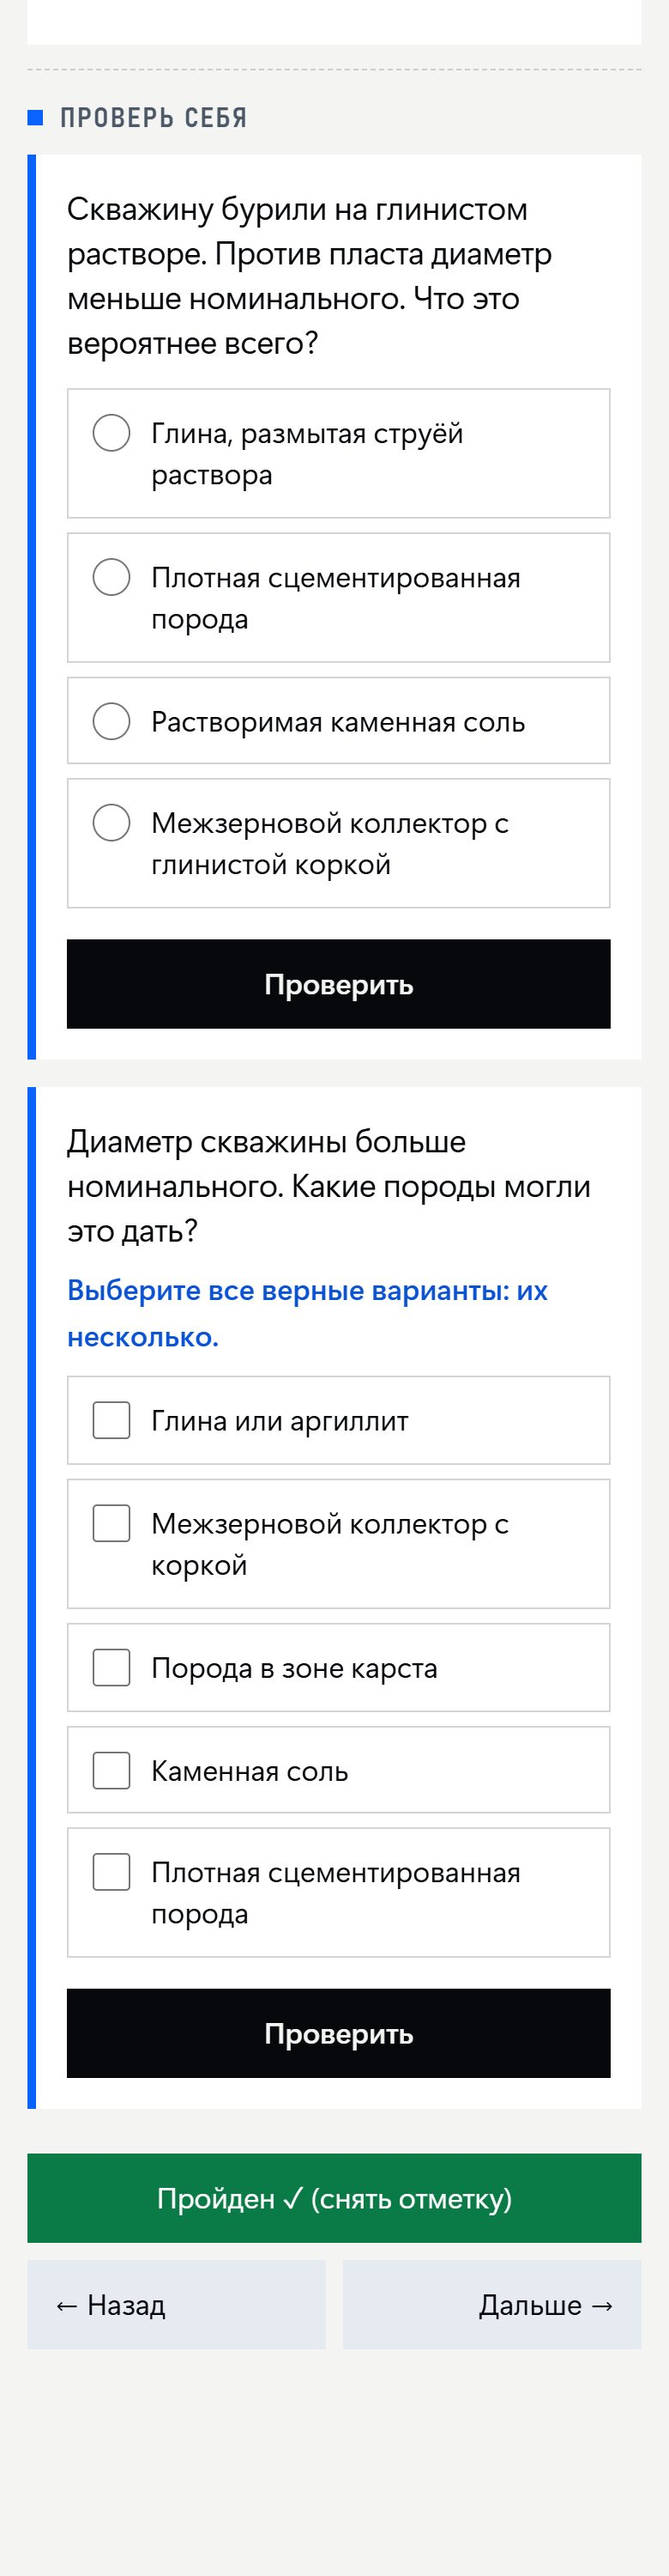
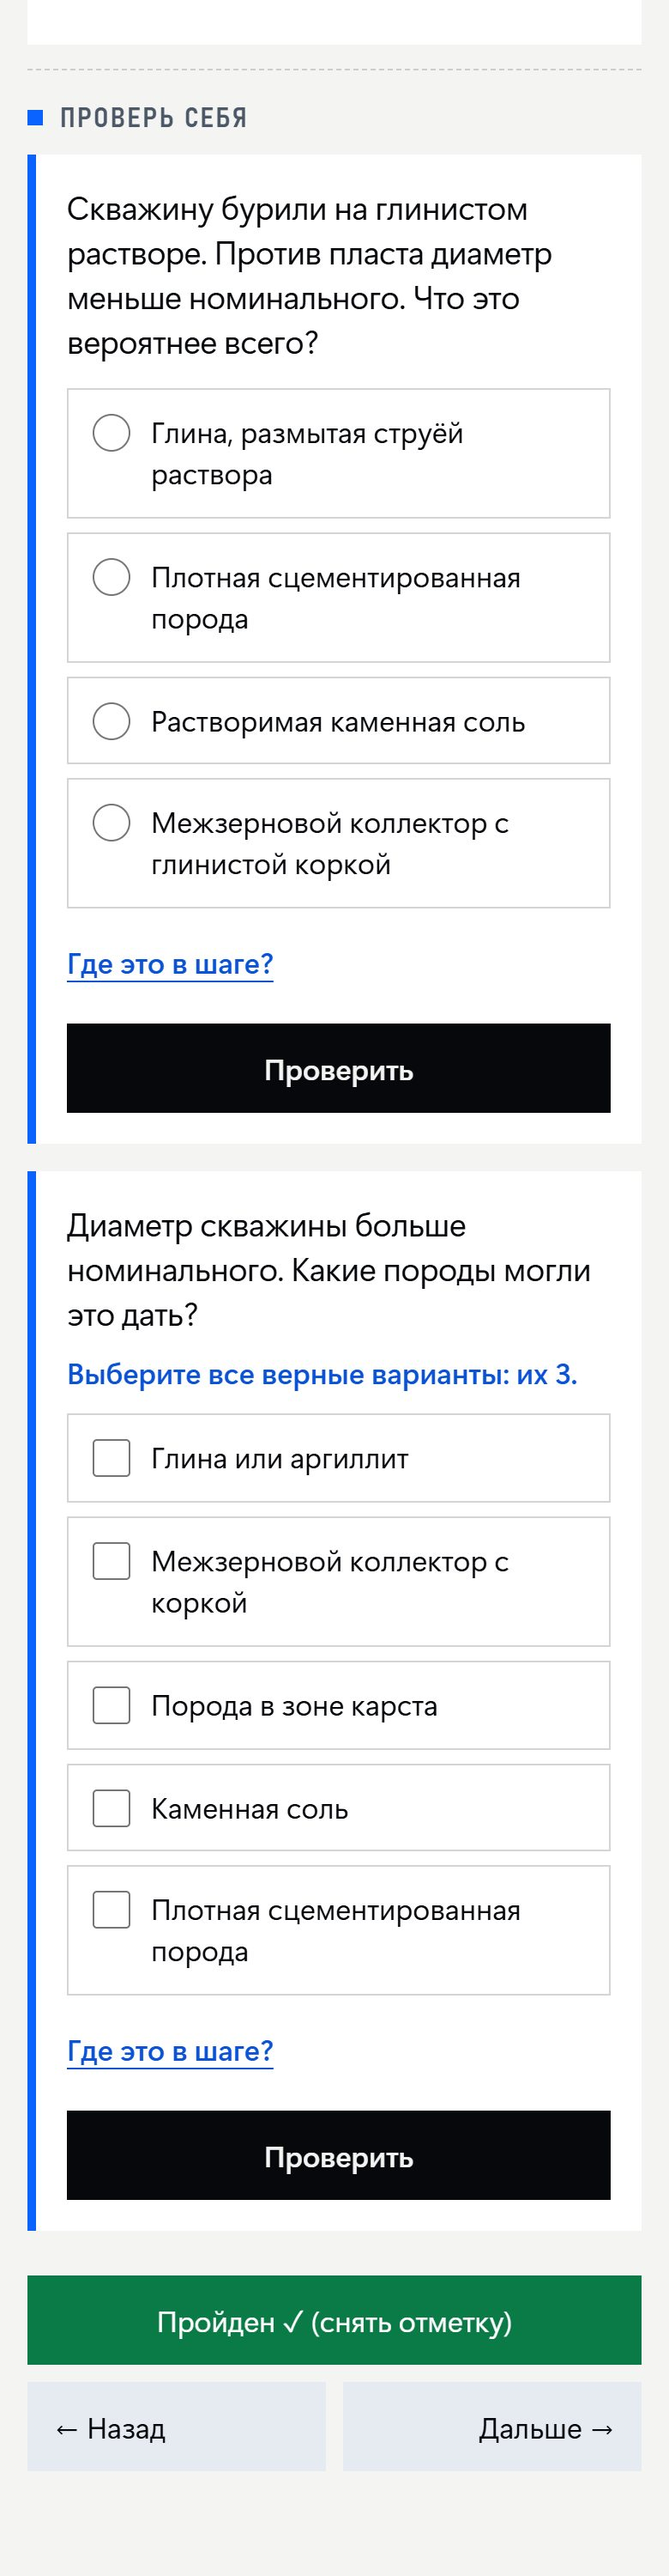
Задания понятнее новичку: «Где это в шаге?», слова из вопроса, сколько вариантов верны, слово в любой форме; переписаны 9 вопросов

Changed region(s): [[0.0308, 0.341, 0.9846, 0.961], [0.0308, 0.403, 0.0615, 0.465]]

diff --git a/engine/template.html b/engine/template.html
@@ -107,6 +107,9 @@ table{border-collapse:collapse}td,th{border:1px solid var(--line);padding:6px 10
 .quiz ol{list-style:none;padding:0;margin:0 0 12px}.quiz ol li{display:grid;grid-template-columns:auto 1fr auto auto;gap:6px;align-items:center;padding:6px 6px 6px 10px;margin:8px 0;border:1.5px solid var(--line);line-height:1.35}.quiz ol button{min-width:44px;padding:0;border:0;background:var(--soft)}
 .grip{cursor:grab;touch-action:none;user-select:none;min-width:32px;min-height:44px;display:grid;place-items:center;color:var(--mut);font-size:1.3rem}li.drag{background:var(--soft);border-color:var(--blue)!important}
 .quiz>button{width:100%;background:var(--fg);color:var(--bg);border-color:var(--fg);min-height:52px;font-weight:500;margin-top:10px}
+.qhelp{display:flex;flex-wrap:wrap;gap:4px 18px;align-items:flex-start;margin:8px 0 2px}.qhelp .find{border:0;background:none;color:var(--acc);padding:10px 0;font-weight:500;text-decoration:underline;text-underline-offset:4px}.qhelp details{flex:1 1 12rem}.qhelp details p{margin:0 0 8px;line-height:1.45}
+.here{background:color-mix(in srgb,var(--blue) 18%,transparent);box-shadow:-10px 0 0 color-mix(in srgb,var(--blue) 18%,transparent),inset 4px 0 0 var(--blue);padding-left:10px;scroll-margin:140px}.ess .here{background:rgba(255,255,255,.16)}
+#backq{position:fixed;z-index:45;left:50%;bottom:92px;transform:translateX(-50%);background:var(--blue);color:#fff;border-color:var(--blue);box-shadow:0 14px 34px rgba(0,8,30,.4);white-space:nowrap}#backq[hidden]{display:none}@media (min-width:821px){#backq{bottom:28px}}
 .quiz .res:empty{display:none}.quiz .res{margin-top:12px;padding:14px 16px;line-height:1.45;animation:up .5s var(--ease)}.quiz .res.ok{background:var(--okbg);color:var(--ok)}.quiz .res.no{background:var(--badbg);color:var(--bad)}
 @keyframes up{from{opacity:0;transform:translateY(12px)}}
 /* ---- карточки ---- */
@@ -125,7 +128,7 @@ ul.map{list-style:none;padding:0 0 0 92px;margin:14px 0}ul.map li{padding:11px 1
 @media (max-width:560px){ul.map{padding-left:64px}#arcs{width:60px}}
 #toast{position:fixed;width:max-content;z-index:60;left:50%;bottom:96px;transform:translate(-50%,160%);background:#06080c;color:#fff;display:flex;align-items:center;gap:14px;padding:14px 20px;transition:transform .6s var(--ease);max-width:calc(100vw - 32px);box-shadow:0 18px 44px rgba(0,8,30,.4);visibility:hidden}#toast.on{transform:translate(-50%,0);visibility:visible}#toast i{width:10px;height:10px;background:var(--blue);flex:none}
 @media (prefers-reduced-motion:reduce){*{animation:none!important;transition:none!important}}
-@media print{header.top,nav.main,.stepnav,button,progress,#toast{display:none!important}body,body::before{background:#fff!important;color:#000}.view{display:block!important}#path,#cards,#map,.step{display:none!important}#notes{display:block!important}ul.notes li{break-inside:avoid;padding:6px 0}}
+@media print{#backq,.qhelp,header.top,nav.main,.stepnav,button,progress,#toast{display:none!important}body,body::before{background:#fff!important;color:#000}.view{display:block!important}#path,#cards,#map,.step{display:none!important}#notes{display:block!important}ul.notes li{break-inside:avoid;padding:6px 0}}
 </style>
 </head>
 <body class="p-path">
@@ -144,6 +147,7 @@ ul.map{list-style:none;padding:0 0 0 92px;margin:14px 0}ul.map li{padding:11px 1
 <main id="content" tabindex="-1">
 {{BODY}}
 </main>
+<button type="button" id="backq" hidden>↓ Вернуться к заданию</button>
 <div id="toast" role="status"><i></i><span></span></div>
 <noscript><p style="padding:16px">Включите JavaScript для навигации и заданий; весь текст курса доступен выше.</p></noscript>
 <script>
@@ -166,6 +170,7 @@ function xp(){var a=state.answers,s=0;for(var k in a)if(a[k].ok)s+=a[k].first?10
 var TASKS={};all('.step').forEach(function(a){TASKS[a.dataset.id]=all('.quiz',a).map(function(q){return JSON.parse(q.getAttribute('data-ex')).id})});
 function nextStep(){var l=state.last;if(l&&ORDER.indexOf(l)>=0&&!state.done[l])return l;for(var i=0;i<ORDER.length;i++)if(!state.done[ORDER[i]])return ORDER[i];return ORDER[ORDER.length-1]}
 function show(id){
+  $('backq').hidden=true;
   var from=shown;
   views.forEach(function(v){v.hidden=true});
   var el=$(id);if(!el){el=$('path')}
@@ -343,6 +348,29 @@ document.getElementById('theme').addEventListener('click',function(){
 /* --- задания: single, multiple, order, gap, calc (формат task.schema организаторов) --- */
 function el(t,a,h){var x=document.createElement(t);for(var k in(a||{}))x.setAttribute(k,a[k]);if(h!=null)x.textContent=h;return x}
 function shuffle(a){a=a.slice();for(var i=a.length-1;i>0;i--){var j=Math.floor(Math.random()*(i+1));var t=a[i];a[i]=a[j];a[j]=t}return a}
+/* слово засчитываем в любой форме: «калийная» и «калийные» — один ответ; числа — только точно */
+function sameWord(a,b){
+  function n(s){return String(s).toLowerCase().replace(/ё/g,'е').replace(/[«»"'.,;:!?()]/g,'').replace(/\s+/g,' ').trim()}
+  a=n(a);b=n(b);if(!a)return false;if(a===b)return true;
+  if(/\d/.test(b))return a.replace(',','.')===b.replace(',','.');
+  var k=0;while(k<a.length&&k<b.length&&a[k]===b[k])k++;
+  return b.length>4&&k>=Math.max(4,b.length-3)&&a.length-k<=3;
+}
+/* место в тексте шага, где лежит ответ: абзац с наибольшим общим словарём с опорой задания */
+function showPlace(q,t){
+  function bag(s){return (s.toLowerCase().replace(/ё/g,'е').match(/[а-яa-z0-9]{4,}/g)||[]).map(function(w){return w.slice(0,6)})}
+  var step=q.closest('.step'),need={},best=null,score=0;bag((t.evidence||'')+' '+t.explanation).forEach(function(w){need[w]=1});
+  var key=[].concat(t.answer),right=(t.options||[]).filter(function(o){return t.type!=='order'&&key.indexOf(o.id)>=0}).map(function(o){return o.text}).join(' ')||(t.type==='gap'?key.join(' '):'');
+  bag(right).forEach(function(w){need[w]=1.6});
+  var ev=(t.evidence||'').replace(/\s+/g,' ').trim();
+  all('.blk:not(.srcs):not(.test):not(.ill) p,.blk:not(.srcs):not(.test):not(.ill) li,.blk tr,.blk .kv>span',step).forEach(function(p){
+    var seen={},s=0,w=bag(p.textContent);w.forEach(function(x){if(need[x]&&!seen[x]){seen[x]=1;s+=need[x]}});
+    if(ev&&p.textContent.replace(/\s+/g,' ').indexOf(ev)>=0)s+=50;
+    s=s/Math.sqrt(8+w.length*.12);if(s>score){score=s;best=p}});
+  if(!best)return;
+  all('.here',step).forEach(function(x){x.classList.remove('here')});best.classList.add('here');best.scrollIntoView({block:'center',behavior:'smooth'});
+  var b=$('backq');b.hidden=false;b.onclick=function(){b.hidden=true;q.scrollIntoView({block:'center',behavior:'smooth'})};
+}
 function buildQuiz(q){
   var t=JSON.parse(q.getAttribute('data-ex')),uid='q'+Math.random().toString(36).slice(2),opts=t.options||[],get,byId={};
   opts.forEach(function(o){byId[o.id]=o});
@@ -354,7 +382,7 @@ function buildQuiz(q){
     get=function(){return gapInputs.map(function(i){return i.value.trim()})};
   }else{
     q.appendChild(el('p',{},t.prompt));
-    if(t.type==='multiple')q.appendChild(el('p',{class:'qhint'},'Выберите все верные варианты: их несколько.'));
+    if(t.type==='multiple')q.appendChild(el('p',{class:'qhint'},'Выберите все верные варианты: их '+t.answer.length+'.'));
     if(t.type==='order')q.appendChild(el('p',{class:'qhint'},'Расставьте по порядку: перетащите или нажмите ↑ ↓.'));
     if(t.type==='single'||t.type==='multiple'){
       opts.forEach(function(o){var l=el('label'),inp=el('input',{type:t.type==='single'?'radio':'checkbox',name:uid,value:o.id});
@@ -384,6 +412,10 @@ function buildQuiz(q){
       get=function(){return inp2.value.trim()};
     }
   }
+  var help=el('div',{class:'qhelp'}),find=el('button',{type:'button',class:'find'},'Где это в шаге?');
+  find.onclick=function(){state.hints=state.hints||{};state.hints[t.id]=1;save();showPlace(q,t)};help.appendChild(find);
+  if(t._words&&t._words.length){var dw=el('details'),sw=el('summary',{},'Слова из вопроса');dw.appendChild(sw);t._words.forEach(function(w){var p=el('p');p.appendChild(el('b',{},w[0]));p.appendChild(document.createTextNode(' — '+w[1]));dw.appendChild(p)});help.appendChild(dw)}
+  q.appendChild(help);
   var btn=el('button',{type:'button'},'Проверить'),res=el('div',{class:'res','aria-live':'polite'});
   btn.onclick=function(){
     var v=get(),ok=false,shown='',hint='';
@@ -391,11 +423,11 @@ function buildQuiz(q){
       if(!ok&&v.length===1&&byId[v[0]]&&byId[v[0]].misconception&&MISC[byId[v[0]].misconception])hint=' Это типичное заблуждение: «'+MISC[byId[v[0]].misconception]+'»';}
     else if(t.type==='multiple'){ok=JSON.stringify(v.slice().sort())===JSON.stringify(t.answer.slice().sort());shown=t.answer.map(function(i){return byId[i].text}).join('; ')}
     else if(t.type==='order'){ok=JSON.stringify(v)===JSON.stringify(t.answer);shown=t.answer.map(function(i){return byId[i].text}).join(' → ')}
-    else if(t.type==='gap'){ok=v.length===t.answer.length&&v.every(function(x,i){return x.toLowerCase()===String(t.answer[i]).toLowerCase()});shown=t.answer.join(', ')}
+    else if(t.type==='gap'){ok=v.length===t.answer.length&&v.every(function(x,i){return sameWord(x,t.answer[i])});shown=t.answer.join(', ')}
     else{var n=parseFloat(String(v).replace(',','.'));ok=!isNaN(n)&&Math.abs(n-t.answer)<=(t.tolerance||0);shown=t.answer+(t.unit?' '+t.unit:'')}
     state.answers=state.answers||{};   /* для проверки на новичках: первая попытка, число попыток, итог */
     var rec=state.answers[t.id];
-    if(!rec)state.answers[t.id]={first:ok,tries:1,ok:ok,type:t.type,step:t.step_id};else{rec.tries++;rec.ok=ok}
+    if(!rec)state.answers[t.id]={first:ok,tries:1,ok:ok,type:t.type,step:t.step_id,hint:!!(state.hints||{})[t.id]};else{rec.tries++;rec.ok=ok}
     save();afterAnswer(t,ok);
     q.classList.toggle('right',ok);q.classList.toggle('wrong',!ok);
     if(t.type==='single'||t.type==='multiple'){var rightIds=[].concat(t.answer);q.querySelectorAll('label').forEach(function(l){var i=l.querySelector('input');

diff --git a/engine/build_course.py b/engine/build_course.py
@@ -182,8 +182,26 @@ def render_illustrations(node, ills):
     return "".join(out)
 
 
-def render_quizzes(tasks):
-    return "".join(f'<div class="quiz" data-ex=\'{e(json.dumps(t, ensure_ascii=False))}\'></div>' for t in tasks)
+def term_help(task, glossary):
+    """Слова вопроса, которые новичок мог забыть. Сам ответ не подсказываем."""
+    ans = task["answer"] if isinstance(task["answer"], list) else [task["answer"]]
+    said = {str(a).lower() for a in ans} | {o["text"].lower() for o in task.get("options", [])}
+    stems = lambda s: {w[:6] for w in re.findall(r"[а-яёa-z0-9]{4,}", s.lower())}
+    right = stems(" ".join(o["text"] for o in task.get("options", []) if o["id"] in ans)) | stems(" ".join(str(a) for a in ans if task["type"] == "gap"))
+    out = []
+    for term, text in glossary.items():
+        if right and len(right & stems(text)) >= len(right) / 2:   # определение повторяет ответ
+            continue
+        if any(term[:6] in s for s in said) or len(term) < 2:
+            continue
+        stem = " ".join(re.escape(w[:-2] if len(w) > 5 else w) + r"\w{0,4}" for w in term.split())
+        if re.search(r"(?<!\w)" + stem + r"(?!\w)", task["prompt"].lower()):
+            out.append((term, text))
+    return sorted(out, key=lambda x: -len(x[0]))[:3]
+
+
+def render_quizzes(tasks, glossary=None):
+    return "".join(f'<div class="quiz" data-ex=\'{e(json.dumps({**t, "_words": term_help(t, glossary or {})}, ensure_ascii=False))}\'></div>' for t in tasks)
 
 
 def render_step(node, i, total, tasks, ills, route, glossary, part=1):
@@ -234,7 +252,7 @@ def render_step(node, i, total, tasks, ills, route, glossary, part=1):
   {block('Источник', claims_html, 'srcs')}
   {block('Задачи из книги', render_book_tasks(node))}
   {block('Иллюстрации', render_illustrations(node, ills), 'ill')}
-  {block('Проверь себя', render_quizzes(tasks), 'test')}
+  {block('Проверь себя', render_quizzes(tasks, glossary), 'test')}
   {nav}
 </article>"""
 
@@ -420,6 +438,9 @@ def main():
         for t in gl if isinstance(gl, list) else gl.get("terms", []):
             if t.get("ru") and t.get("note"):
                 glossary[t["ru"].lower()] = t["note"]
+    for n in nodes:   # определения из самой главы важнее общих
+        for g in n.get("glossary", []):
+            glossary[g["term"].lower()] = g["definition"]
     by_step_t, by_step_i = {}, {}
     for t in tasks["tasks"]:
         by_step_t.setdefault(t["step_id"], []).append(t)

diff --git a/tests/test_engine.py b/tests/test_engine.py
@@ -355,6 +355,19 @@ class Path_(unittest.TestCase):
         self.assertTrue(all(len(p["nodes"]) <= 14 for p in long))
 
 
+class TermHelp(unittest.TestCase):
+    def test_words_do_not_give_the_answer_away(self):
+        sys.path.insert(0, str(ROOT / "engine"))
+        import build_course as b
+        gl = {"водоотдача": "сколько жидкости раствор отдаёт в породу", "биостром": "пласт из остатков организмов", "вторая фаза": "начинается, когда граница достигла края пласта"}
+        one = {"type": "single", "prompt": "Что будет при высокой водоотдаче?", "answer": "a", "options": [{"id": "a", "text": "Толстая корка"}]}
+        self.assertEqual([t for t, _ in b.term_help(one, gl)], ["водоотдача"])
+        two = {"type": "single", "prompt": "Это биостром?", "answer": "a", "options": [{"id": "a", "text": "Биостром"}]}
+        self.assertEqual(b.term_help(two, gl), [])
+        three = {"type": "single", "prompt": "Когда начинается вторая фаза?", "answer": "a", "options": [{"id": "a", "text": "Граница достигла края пласта"}]}
+        self.assertEqual(b.term_help(three, gl), [])
+
+
 class Formulas(unittest.TestCase):
     def test_builder_takes_formula_and_table(self):
         from engine.nodes import Builder

diff --git a/prompts/tasks.md b/prompts/tasks.md
@@ -12,7 +12,8 @@
 7. calc — числа автора или простая подстановка. Формула расчёта в f, чтобы программа проверила ответ.
 8. Не меньше пяти заданий с kind transfer или data: новая ситуация, признаки и вывод.
 9. Вопрос до 40 слов, вариант до 20 слов, пояснение в одну фразу: почему верный верен.
-10. Задания на разные шаги; важные и пороговые шаги в первую очередь.
+10. Вопрос понятен новичку без памяти о других шагах: термин вопроса объяснён в этом или более раннем шаге; если ответ в таблице или примере, назови их («по примеру 47 этого шага»); у order один ясный признак порядка; варианты названы прямо, без «первым» и «вторым».
+11. Задания на разные шаги; важные и пороговые шаги в первую очередь.
 
 ОТВЕТ: только JSON. Верные варианты ПЕРВЫМИ, программа перемешает сама.
 {"tasks": [

diff --git a/metrics.md b/metrics.md
@@ -8,9 +8,9 @@
 | Глава | Узлов | Деньги, $ | $ на узел | Человеко-мин | Мин на узел | Мин ментора | Заданий | Анимаций |
 | --- | --- | --- | --- | --- | --- | --- | --- | --- |
 | baraboshkin | 22 | 0.00 | 0.000 | 0 | 0.00 | 0 | 18 | 14 |
-| basniev | 48 | 0.00 | 0.000 | 0 | 0.00 | 0 | 37 | 19 |
-| kuznetsov | 41 | 0.00 | 0.000 | 0 | 0.00 | 0 | 37 | 26 |
-| latyshova | 45 | 0.00 | 0.000 | 10 | 0.22 | 0 | 38 | 11 |
+| basniev | 48 | 0.00 | 0.000 | 1 | 0.02 | 0 | 37 | 19 |
+| kuznetsov | 41 | 0.00 | 0.000 | 1 | 0.02 | 0 | 37 | 26 |
+| latyshova | 45 | 0.00 | 0.000 | 12 | 0.27 | 0 | 38 | 11 |
 | vendelshtein | 38 | 0.00 | 0.000 | 0 | 0.00 | 0 | 83 | 10 |
 
 ## Минута видео
